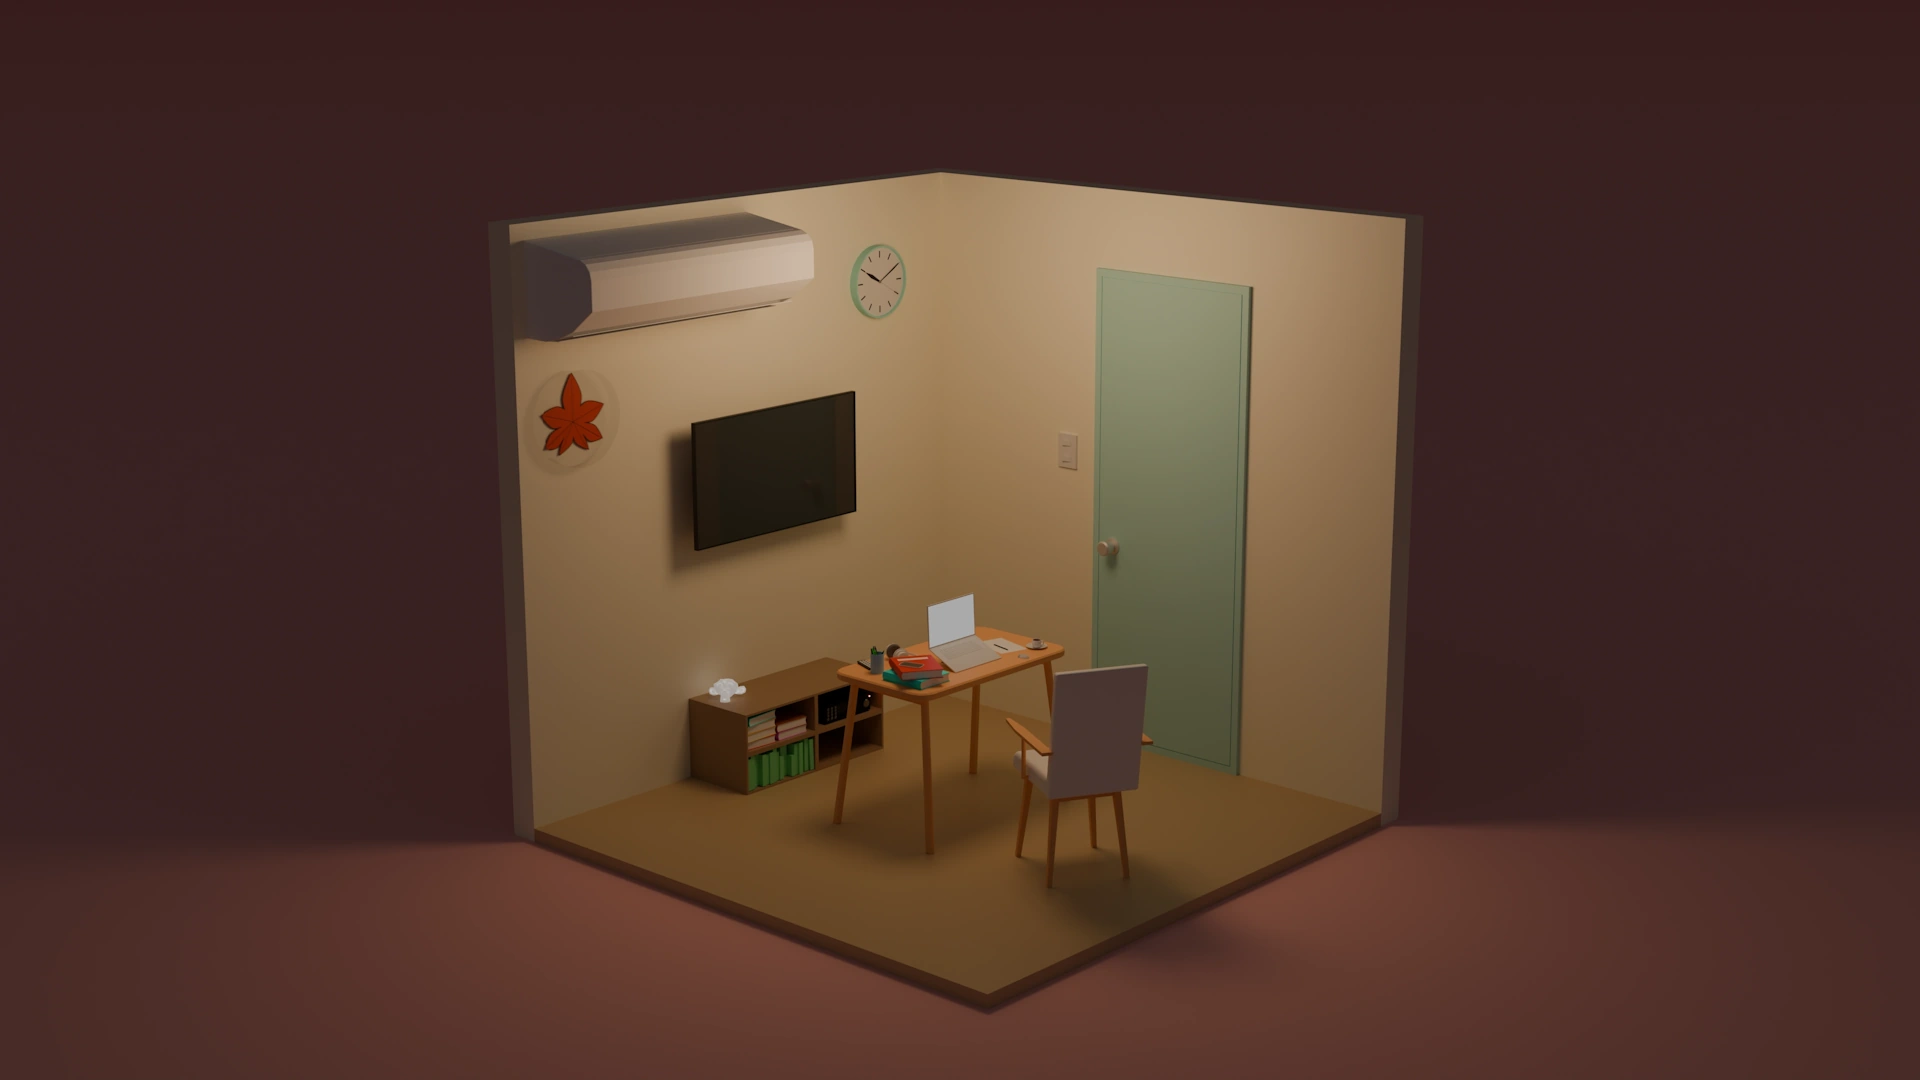
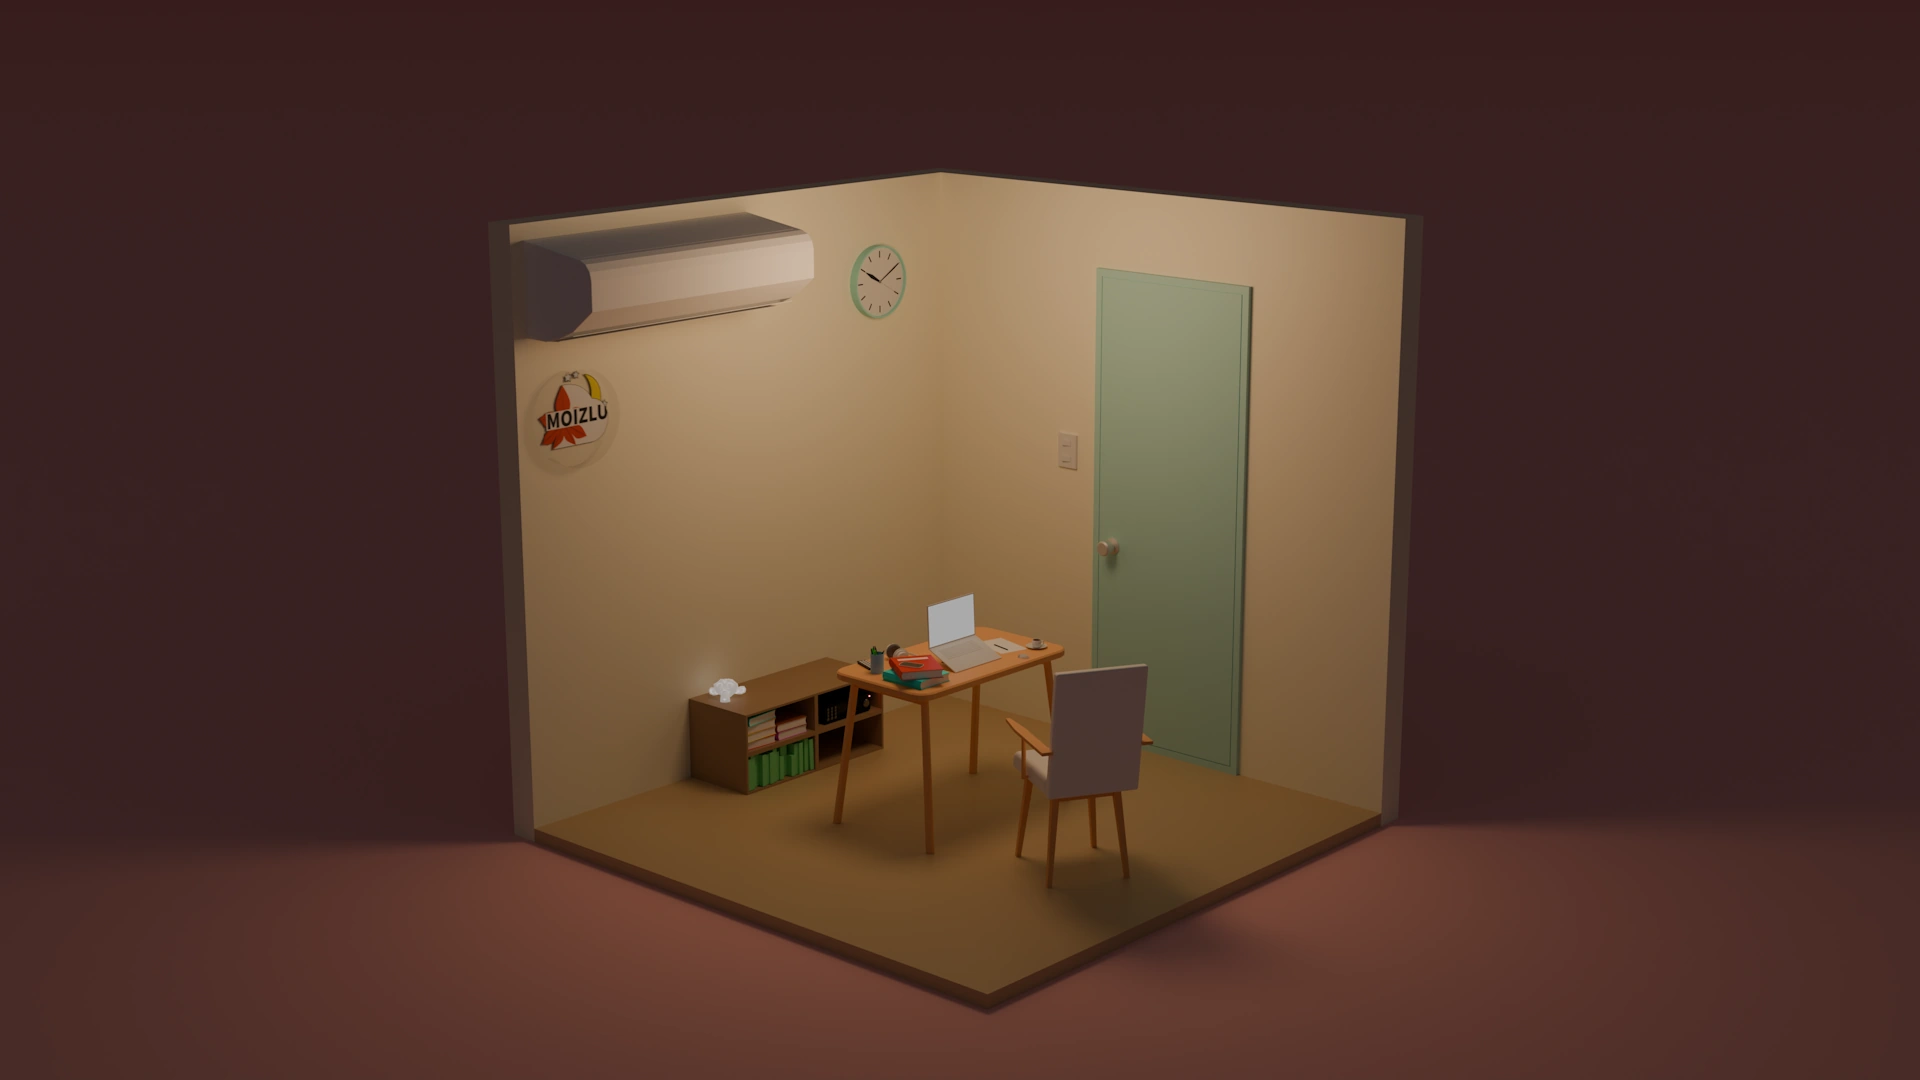
デザインの調整

Changed region(s): [[0.3438, 0.3667, 0.4688, 0.55], [0.2812, 0.3361, 0.3125, 0.4278]]

diff --git a/src/lib/components/pages/Home/Home.svelte b/src/lib/components/pages/Home/Home.svelte
@@ -16,6 +16,7 @@
 
     import { m } from "$lib/paraglide/messages";
     import { getLocale } from "$lib/paraglide/runtime";
+    import { motionReduced } from "$lib/utils";
 
     import CopyButton from "$lib/components/ui/CopyButton";
     import SvgIcon from "$lib/components/ui/SvgIcon";
@@ -42,6 +43,8 @@
         const onSplashHidden = () => {
             if (!avatarElement || !jpHandleElement || !enHandleElement || !briefIntroElement) { return; }
 
+            const reduced = motionReduced();
+
             avatarElement.style.animationPlayState = "running";
             // jpHandleElement.style.animationPlayState = "running";
             // enHandleElement.style.animationPlayState = "running";
@@ -51,6 +54,10 @@
             for (const char of jpHandleElement.querySelectorAll("span")) {
                 char.style.animationDelay = `${delay}ms`;
                 char.style.animationPlayState = "running";
+                if (reduced) {
+                    char.style.animationDuration = "0ms";
+                    char.style.animationDelay = "0ms";
+                }
 
                 delay += 30;
             }
@@ -60,6 +67,10 @@
             for (const char of enHandleElement.querySelectorAll("span")) {
                 char.style.animationDelay = `${delay}ms`;
                 char.style.animationPlayState = "running";
+                if (reduced) {
+                    char.style.animationDuration = "0ms";
+                    char.style.animationDelay = "0ms";
+                }
 
                 delay += 30;
             }
@@ -69,6 +80,10 @@
             for (const link of linkButtons) {
                 link.style.animationDelay = `${delay}ms`;
                 link.style.animationPlayState = "running";
+                if (reduced) {
+                    link.style.animationDuration = "0ms";
+                    link.style.animationDelay = "0ms";
+                }
 
                 delay += 50;
             }
@@ -95,7 +110,7 @@
 {/snippet}
 
 <section id="home" class="w-full min-h-svh flex flex-col justify-center items-center pb-10
-before:transition-all before:duration-300 before:content-[''] before:absolute before:top-0 before:left-0 before:w-full before:h-full before:bg-[url(/images/room2.webp)] before:bg-cover before:bg-center before:brightness-170 dark:before:brightness-50 before:bg-fixed">
+before:transition-all before:duration-300 before:content-[''] before:absolute before:top-0 before:left-0 before:w-full before:h-full before:bg-[url(/images/room2.webp)] before:bg-cover before:bg-center before:brightness-130 dark:before:brightness-50 before:bg-fixed">
     <div class="flex justify-center items-center bg-white">
         <img bind:this={avatarElement} src={avatar} alt={m.avatar()} width={80} height={80} class="avatar">
 
@@ -106,7 +121,7 @@ before:transition-all before:duration-300 before:content-[''] before:absolute be
         </div>
     </div>
     <div class="-mt-3">
-        <p bind:this={briefIntroElement} class="p-1 brief-intro bg-base/20 rounded-sm">{m.brief_intro()}</p>
+        <p bind:this={briefIntroElement} class="p-1 brief-intro bg-base/50 rounded-sm">{m.brief_intro()}</p>
     </div>
 
     <!-- リンク集 -->
@@ -204,6 +219,12 @@ before:transition-all before:duration-300 before:content-[''] before:absolute be
 
             animation: 0.5s ease 1 both popup;
             animation-play-state: pause;
+        }
+
+        @media (prefers-reduced-motion: reduce) {
+            .next-section {
+                animation: none;
+            }
         }
     }
 </style>

diff --git a/src/lib/components/sections/SplashScreen/SplashScreen.svelte b/src/lib/components/sections/SplashScreen/SplashScreen.svelte
@@ -16,7 +16,7 @@
     });
 </script>
 
-<div class={["z-10000 transition-all duration-400 fixed top-0 left-0 w-full h-full bg-base flex flex-col justify-center items-center gap-4", (!splashStore.appeared) && "translate-x-100 opacity-0 pointer-events-none"]}>
+<div class={["z-10000 transition-all duration-400 fixed top-0 left-0 w-full h-full bg-base flex flex-col justify-center items-center gap-4", (!splashStore.appeared) && "motion-safe:translate-x-100 opacity-0 pointer-events-none"]}>
     <LoadingAnimation />
 
     <p class="ml-8 text-2xl font-thin">Now Loading

diff --git a/src/lib/utils/utils.ts b/src/lib/utils/utils.ts
@@ -10,3 +10,7 @@ export const getSectionName = (id: SectionName | ""): SectionName => {
 export const isComponent = (contents: Snippet | Component | undefined): contents is Component => {
     return (contents !== undefined) && ('element' in contents);
 }
+
+export const motionReduced = () => {
+    return window.matchMedia('(prefers-reduced-motion: reduce)').matches;
+}

diff --git a/src/routes/layout.css b/src/routes/layout.css
@@ -10,6 +10,16 @@ html {
     /* scroll-padding: 15rem; */
 }
 
+@media (prefers-reduced-motion: reduce) {
+    html {
+        scroll-behavior: auto;
+    }
+}
+::view-transition-group(root) {
+    animation-name: -ua-view-transition-fade-out !important;
+    animation-duration: 100s !important;
+}
+
 @theme {
     --breakpoint-xs: 500px;
     --breakpoint-2xs: 365px;
